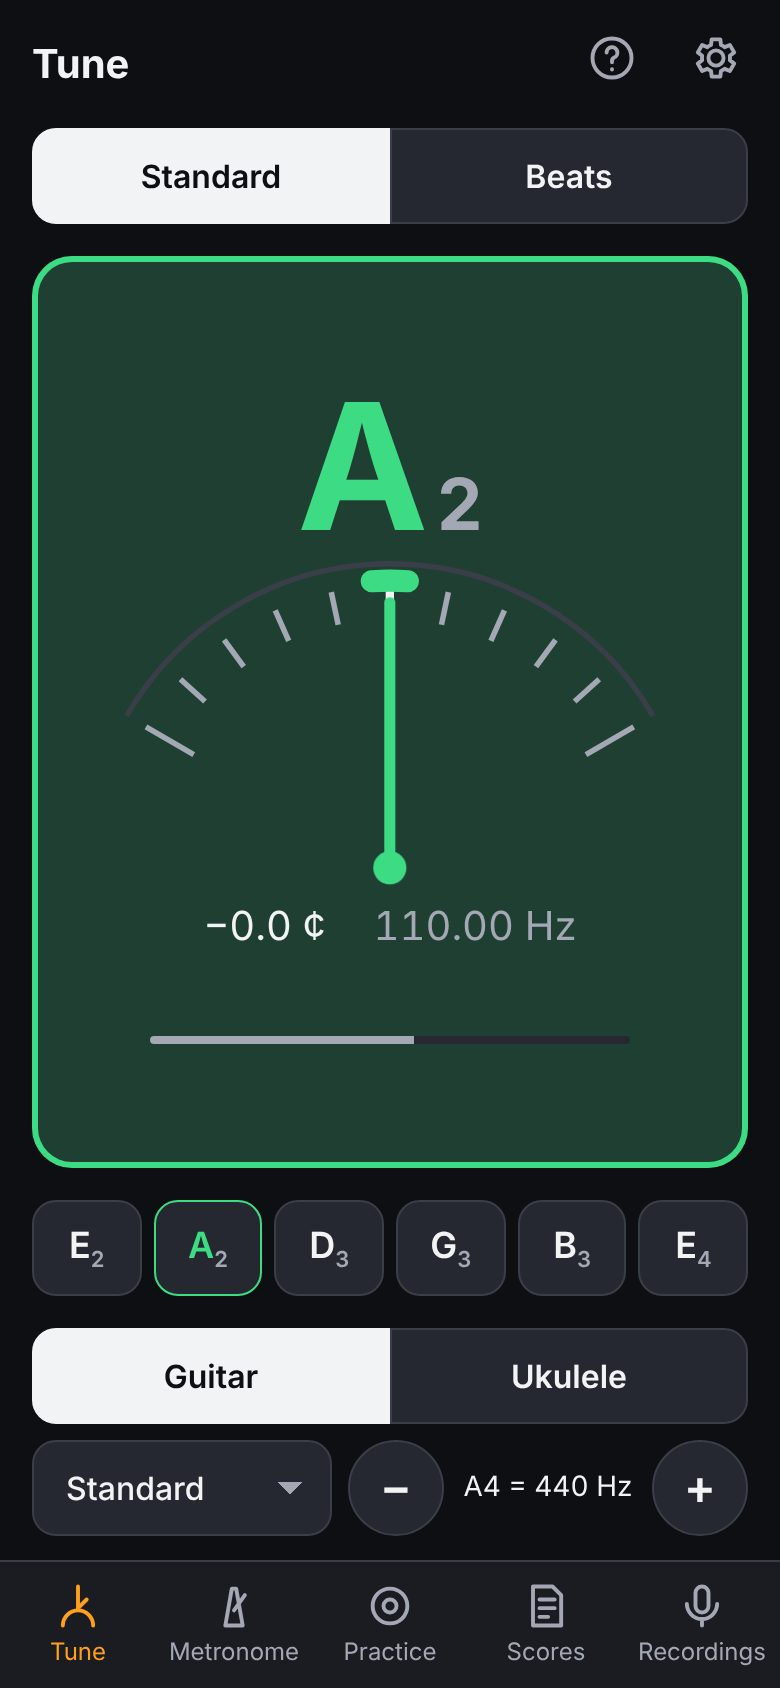
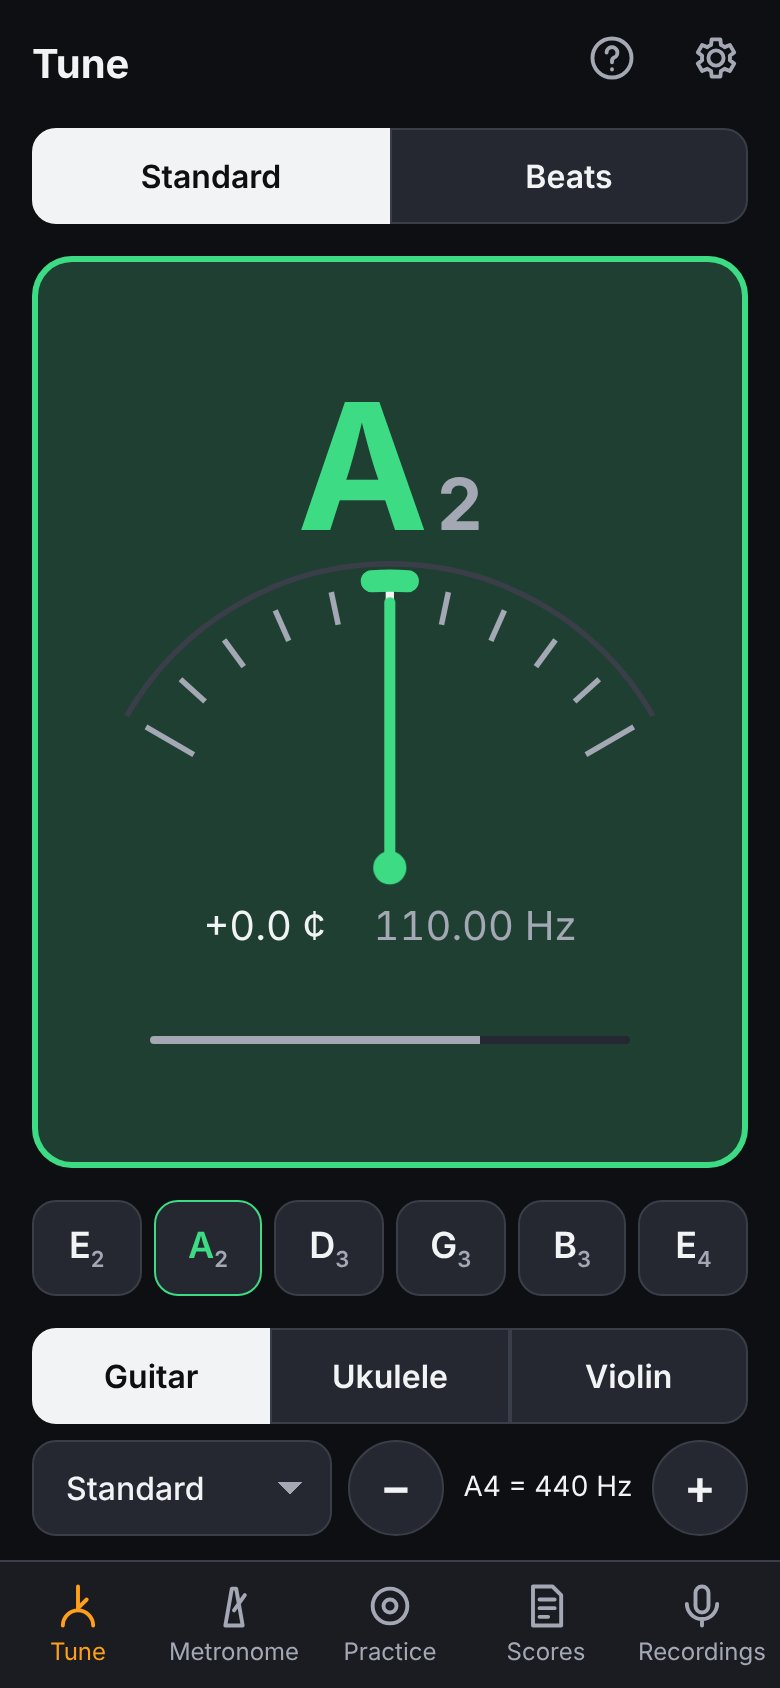
MuLoo: new screenshot with the violin option; mention violin
Claude-Session: https://claude.ai/code/session_016MnQZBoNvrUewyKt5Z3vEo

Changed region(s): [[0.1231, 0.7701, 0.5846, 0.8626], [0.6462, 0.8009, 0.8615, 0.8318]]

diff --git a/index.html b/index.html
@@ -154,12 +154,12 @@ footer{margin-top:32px;color:var(--muted);font-size:.9rem}
   <section class="app" id="muloo">
     <div class="body">
     <div class="title"><img src="/muloo/icons/icon-192.png" alt=""><h2>MuLoo</h2></div>
-    <p class="what">A practice kit for guitar and ukulele: tuner, metronome, scrolling scores and a practice recorder.</p>
+    <p class="what">A practice kit for guitar, ukulele and violin: tuner, metronome, scrolling scores and a practice recorder.</p>
     <div class="cols">
       <div>
         <h3>Does</h3>
         <ul>
-          <li>Tuner for guitar and ukulele, plus a beats mode for fine tuning string against string</li>
+          <li>Tuner for guitar, ukulele and violin (pure fifths), plus a beats mode for fine tuning string against string</li>
           <li>Metronome with tap tempo, subdivisions and a visual-only beat</li>
           <li>PDF scores that scroll row by row with the metronome, following repeats, D.S. and Coda</li>
           <li>Record takes with a count-in; loop, slow down, trim and export them as WAV</li>
@@ -180,7 +180,7 @@ footer{margin-top:32px;color:var(--muted);font-size:.9rem}
       <a href="https://github.com/hodzic/muloo">Source</a>
     </div>
     </div>
-    <a class="shot" href="shots/muloo.jpg?v=14ea462e"><img src="shots/muloo.jpg?v=14ea462e" width="390" height="844" alt="MuLoo’s tuner reading A2 at 110.00 Hz, exactly in tune: the gauge panel is green, the needle centred and the A2 string button outlined" loading="lazy"></a>
+    <a class="shot" href="shots/muloo.jpg?v=390e4204"><img src="shots/muloo.jpg?v=390e4204" width="390" height="844" alt="MuLoo’s tuner reading A2 at 110.00 Hz, exactly in tune: the gauge panel is green, the needle centred and the A2 string button outlined; Guitar, Ukulele and Violin below" loading="lazy"></a>
   </section>
 
   <footer>Edin Hodzic · <a href="https://github.com/hodzic">GitHub</a></footer>
